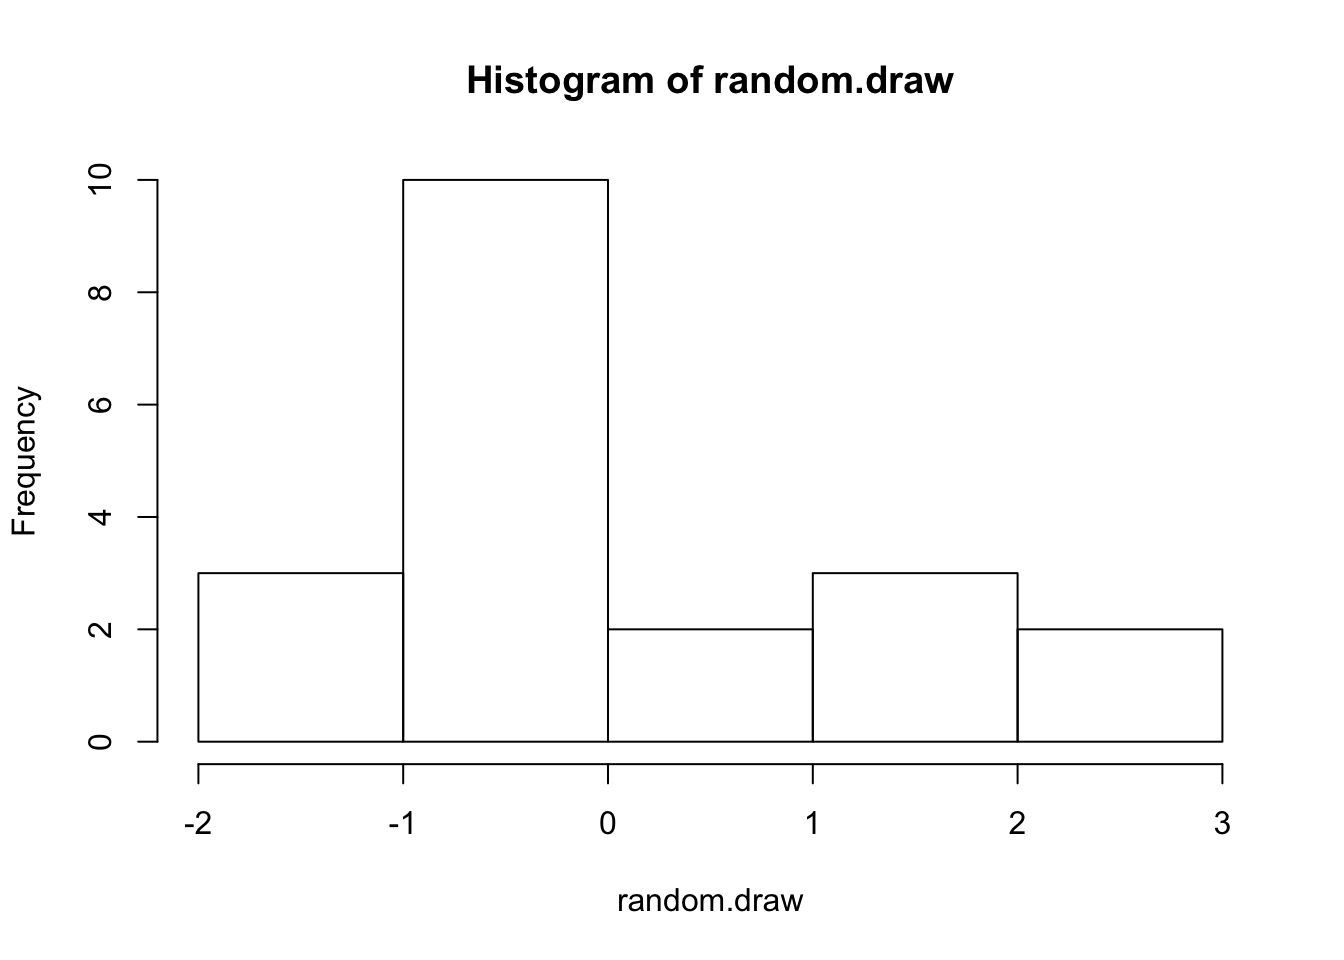
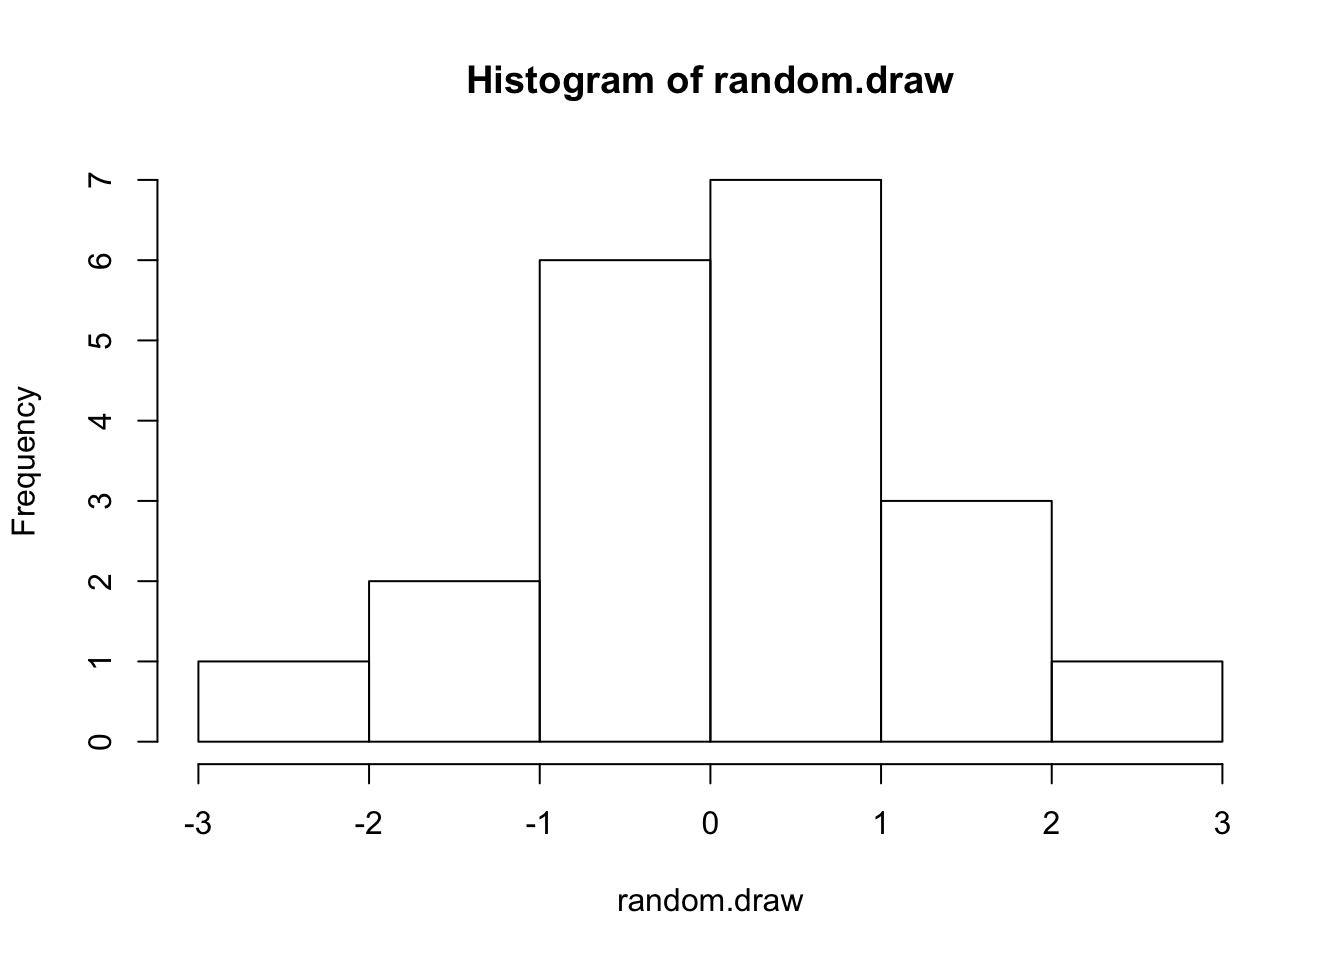
Updated

diff --git a/docs/introduction.html b/docs/introduction.html
@@ -280,17 +280,17 @@ $(document).ready(function () {
 <pre><code>## [1] 3</code></pre>
 <p>Another feature that is important in R, is the ability to generate numbers. This can be used for simulations or estimation. Sometimes it might just be useful to illustrate some theoretical concept. Let us consider two examples. First, let us randomly draw 20 values from a normal distribution, 20 values from a uniform distribution, and then 20 values from a binomial distribution:</p>
 <pre class="r"><code>rnorm(20, mean=0, sd=1)</code></pre>
-<pre><code>##  [1] -0.02808769  1.09644444 -0.82331907  0.56153977 -0.20904600 -1.09612102
-##  [7] -0.89302256 -0.66393013 -0.36461648  0.33348763  0.41795034 -1.57138501
-## [13]  0.38022259 -0.44330745  0.51295319 -1.73673449  1.35146821  1.15378884
-## [19]  0.94539947  0.37255129</code></pre>
+<pre><code>##  [1] -0.80458516 -1.23714066  0.83183081  0.22212608 -0.16911753 -0.77789050
+##  [7]  1.40712482  1.08224724  1.15975729 -0.09643336 -1.04228119 -1.07182254
+## [13] -1.90884573 -2.43975348 -0.28734472 -0.37468327  1.48365174  0.75046812
+## [19]  1.16268703 -0.42676583</code></pre>
 <pre class="r"><code>runif(20, min=0, max=1)</code></pre>
-<pre><code>##  [1] 0.98240227 0.73472196 0.75769957 0.64180546 0.84678037 0.39787489
-##  [7] 0.37280878 0.75423537 0.77127250 0.02952865 0.08014414 0.72681394
-## [13] 0.25931657 0.08672012 0.05488694 0.46545096 0.13929175 0.02007796
-## [19] 0.91242353 0.11856143</code></pre>
+<pre><code>##  [1] 0.931078166 0.176439029 0.794833760 0.591277394 0.065432628 0.252653578
+##  [7] 0.734179239 0.187327321 0.201208973 0.901251459 0.812692990 0.666410083
+## [13] 0.123426316 0.268174699 0.718486283 0.578323074 0.727968174 0.674568933
+## [19] 0.774419657 0.008484783</code></pre>
 <pre class="r"><code>rbinom(20,size=1, prob=0.5)</code></pre>
-<pre><code>##  [1] 0 0 0 1 0 0 1 0 1 0 1 1 1 1 1 0 1 0 1 1</code></pre>
+<pre><code>##  [1] 0 1 0 0 0 1 0 1 1 1 0 0 1 1 1 0 1 1 1 0</code></pre>
 </div>
 <div id="assignment" class="section level3">
 <h3>Assignment</h3>
@@ -308,11 +308,11 @@ $(document).ready(function () {
 <p>Here another example:</p>
 <pre class="r"><code>random.draw &lt;- rnorm(20, mean=0, sd=1)
 random.draw</code></pre>
-<pre><code>##  [1]  0.22930357 -0.63049523  0.01397825 -0.24191748  0.65387478  1.07232610
-##  [7] -0.12367135 -0.22869424  1.39642320 -3.46082558  1.41139731 -0.22697554
-## [13]  0.64584229  0.64818394  1.93509366  0.42411452  0.34836225  0.94462242
-## [19] -1.51701467 -0.31790931</code></pre>
-<p>We can of course also just input our own data. Let us imagine we have seven countries:</p>
+<pre><code>##  [1]  0.08844868  0.59146056 -0.95636568 -1.64461985  2.31770111 -0.68029523
+##  [7] -0.05165105  1.77203121 -1.94947508  1.84158449 -1.66967686 -1.03741627
+## [13]  0.01114377  1.79692738 -0.09040899  0.18524831  1.79732271 -0.40280359
+## [19]  0.88905892  0.47479148</code></pre>
+<p>We can of course also just input our own data. Let us imagine we have five countries:</p>
 <pre class="r"><code>country.names &lt;- c(&quot;A&quot;,&quot;B&quot;,&quot;C&quot;,&quot;D&quot;,&quot;E&quot;)
 country.names</code></pre>
 <pre><code>## [1] &quot;A&quot; &quot;B&quot; &quot;C&quot; &quot;D&quot; &quot;E&quot;</code></pre>

diff --git a/docs/index.html b/docs/index.html
@@ -9,10 +9,10 @@
 <meta http-equiv="X-UA-Compatible" content="IE=EDGE" />
 
 
-<meta name="author" content="Nils W Metternich" />
+<meta name="author" content="Nils W Metternich and Luis Schenoni" />
 
 
-<title>Home</title>
+<title>Spread of Conflict</title>
 
 <script src="site_libs/header-attrs-2.11/header-attrs.js"></script>
 <script src="site_libs/jquery-3.6.0/jquery-3.6.0.min.js"></script>
@@ -260,31 +260,20 @@ $(document).ready(function () {
 
 
 
-<h1 class="title toc-ignore">Home</h1>
-<h4 class="author">Nils W Metternich</h4>
-<h4 class="date">27/01/2022</h4>
+<h1 class="title toc-ignore">Spread of Conflict</h1>
+<h4 class="author">Nils W Metternich and Luis Schenoni</h4>
+<h4 class="date">7/02/2022</h4>
 
 </div>
 
 
-<div id="r-markdown" class="section level2">
-<h2>R Markdown</h2>
-<p>This is an R Markdown document. Markdown is a simple formatting syntax for authoring HTML, PDF, and MS Word documents. For more details on using R Markdown see <a href="http://rmarkdown.rstudio.com" class="uri">http://rmarkdown.rstudio.com</a>.</p>
-<p>When you click the <strong>Knit</strong> button a document will be generated that includes both content as well as the output of any embedded R code chunks within the document. You can embed an R code chunk like this:</p>
-<pre class="r"><code>summary(cars)</code></pre>
-<pre><code>##      speed           dist       
-##  Min.   : 4.0   Min.   :  2.00  
-##  1st Qu.:12.0   1st Qu.: 26.00  
-##  Median :15.0   Median : 36.00  
-##  Mean   :15.4   Mean   : 42.98  
-##  3rd Qu.:19.0   3rd Qu.: 56.00  
-##  Max.   :25.0   Max.   :120.00</code></pre>
+<div id="spread-of-conflict-in-international-relations" class="section level2">
+<h2>Spread of Conflict in International Relations</h2>
+<div id="university-college-london-pols0072" class="section level3">
+<h3>University College London: POLS0072</h3>
+<p>This is code for the University College London course: Spread of Conflict in International Relations (POLS0072). This course aims to develop students’ understanding of major themes and debates in the contemporary study of the spread and diffusion of conflict. The course develops the theoretical and empirical understanding of networks.</p>
+<p>Please start with the Introduction. Weeks will be added as we go along.</p>
 </div>
-<div id="including-plots" class="section level2">
-<h2>Including Plots</h2>
-<p>You can also embed plots, for example:</p>
-<p><img src="index_files/figure-html/pressure-1.png" width="672" /></p>
-<p>Note that the <code>echo = FALSE</code> parameter was added to the code chunk to prevent printing of the R code that generated the plot.</p>
 </div>
 
 
